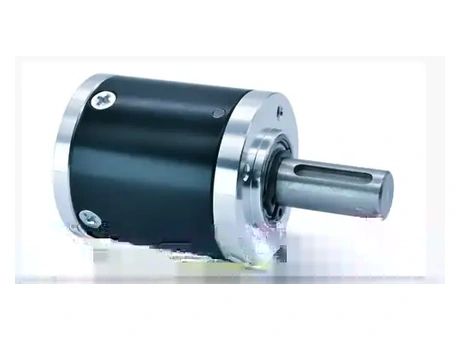
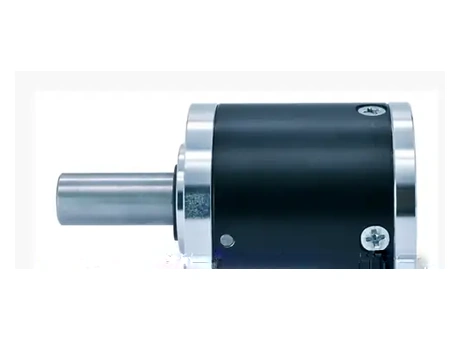
Fix 36P blank image using clean real JPEG and cache-busted source
* Replace damaged 36P photo with clean original side-view crop and fresh JPEG

* Use cache-busted 36P JPG on product page and correct single-photo caption

diff --git a/docs/products/planetary-gearboxes/36p-planetary-gearbox.md b/docs/products/planetary-gearboxes/36p-planetary-gearbox.md
@@ -12,9 +12,11 @@ The SigGear 36P is a 36 mm compact planetary gearbox for compact motorized mecha
 
 ## Real Product Evidence
 
-![Real SigGear 36P 36 mm compact planetary gearbox with diameter check](../../assets/images/products/planetary-gearboxes/36p/36p-real-product-evidence.webp)
+![Real SigGear 36P 36 mm compact planetary gearbox, side view of actual product](../../assets/images/products/planetary-gearboxes/36p/36p-product-photo-20261014.jpg){ width="460" height="340" loading="eager" }
 
-*Real 36P frame-size product photographed from multiple angles. The caliper photo is a visual diameter reference for the photographed sample and does not replace the controlled dimensional drawing or released tolerances for a confirmed configuration.*
+*Real SigGear 36P gearbox sample, side-view photograph showing the housing and output shaft. This image is a visual reference; verify final dimensions and tolerances against the confirmed mechanical drawing for the selected configuration.*
+
+[Open the 36P product photo (JPG)](../../assets/images/products/planetary-gearboxes/36p/36p-product-photo-20261014.jpg)
 
 ## Product Identity
 
